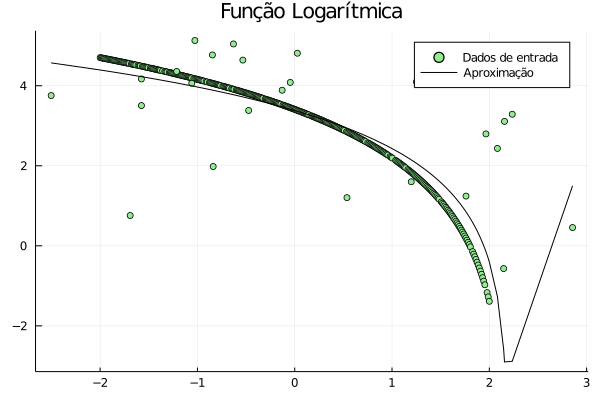
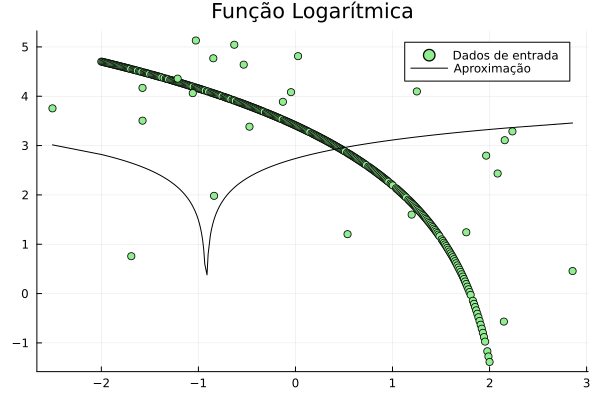
Updates from Overleaf

diff --git a/tex/report01.tex b/tex/report01.tex
@@ -46,9 +46,9 @@ portuguese] % Para algoritmos em português.
 	$$R(x)=\begin{bmatrix}
 	r_1(x)\\ \vdots \\ r_m(x)
 	\end{bmatrix}.$$ Com isso, reescrevemos o problema \begin{equation}
-	f(x) = \frac{1}{2}\sum_{i=1}^{m}r_i^2(x).
+	f(x) = \frac{1}{2}\sum_{i=1}^{m}r_i^2(x),
 	\end{equation}
-	Cada $r_i$ é chamada de função residual.
+	onde cada $r_i$ é chamada de função residual.
 	
 	Definamos $J(x)$ como a matriz jacobiana de $f,$ assim
 	\[
@@ -68,16 +68,15 @@ portuguese] % Para algoritmos em português.
 
 	$1 \leq i \leq m$, $1 \leq j \leq m$.
 		
-	Desta forma, podemos reescrever a derivada de primeira e segunda ordem da função $f,$ de modo diminuir o custo computacional. Veja,
+	Desta forma, podemos reescrever a derivada de primeira e segunda ordem da função $f,$ de modo à diminuir o custo computacional. Veja,
 	
 	\[\nabla f(x) = \sum_{i=1}^{m} r_i(x)\nabla r_i(x) = J(x)^{T}r(x)\]
 	
 	\[\nabla^{2} f(x) = \sum_{i=1}^{m} \nabla r_i(x)\nabla r_i(x)^{T}
 	+ \sum_{i=1}^{m} r_i(x) \nabla^{2}r_i(x) = J(x)^{T}J(x) + S(x)\]
-	
 	com $S(x) = \sum_{i=1}^{m} r_i(x)\nabla^{2}r_i(x).$
 	
-	Com isso, é necessário o cálculo do vetor gradiente da função $f,$ bem como o produto matricial $(J(x)^{T}J(x)$ e o termo $r_i(x)\nabla^{2}$ para encontrar $S(x).$ Contudo, o valor de $S(x)$ não influência tanto o método quanto o termo que o acompanha, $(J(x)^{T}J(x))$ devido ao valor residual ser pequeno ou ao comportamento próximo ao da função ao redor do ponto de convergência, por isso, muitas vezes podemos desconsiderar seu uso.
+	Com isso, é necessário o cálculo do vetor gradiente da função $f,$ bem como o produto matricial $J(x)^{T}J(x)$ e o termo $r_i(x)\nabla^{2}$ para encontrar $S(x).$ Contudo, o valor de $S(x)$ não influência tanto o método quanto o termo que o acompanha, $J(x)^{T}J(x)$ devido ao valor residual ser pequeno ou ao comportamento próximo ao da função ao redor do ponto de convergência, por isso, muitas vezes podemos desconsiderar seu uso.
 	
 	\section{Método de Levenberg-Marquardt}\label{lm}
 	
@@ -86,11 +85,11 @@ portuguese] % Para algoritmos em português.
 	\begin{equation*} 
 	(J(x_0)^{T}J(x_0) + \lambda_0 I ) d(\lambda_0) = - J(x_0)^T R(x_0),
 	\end{equation*}
-	sendo $J, R$ já estabelecidos previamente e $\lambda \in \mathbb{R}_+$ o paramêtro que será discutido posteriormente, chamado paramêtro de $damping.$ Vamos encontrar $d(\lambda),$ uma direção mais próxima da solução do problema proposto.
+	sendo $J, R$ já estabelecidos previamente e $\lambda \in \mathbb{R}_+$ o parâmetro que será discutido posteriormente, chamado parâmetro de $damping.$ Vamos encontrar $d(\lambda),$ uma direção mais próxima da solução do problema proposto.
 	
 	Assim, considerando $x_1 = x_0 + d,$ podemos resolver \ref{sl} continuamente, até encontramos $x_k$ que satisfaça a condição estabelecida.
 	
-	Veja que este sistema possui solução única, uma vez que a matriz $J^{T}J + \lambda I,$ com $\lambda > 0$ é definida positiva. Portando, o método está bem definido. Além disso, os resultados a seguir garantem o bom funcionamento do método.
+	Veja que este sistema possui solução única, uma vez que a matriz $J^{T}J + \lambda I,$ com $\lambda > 0$ é definida positiva. Portanto, o método está bem definido. Além disso, os resultados a seguir garantem o bom funcionamento do método.
 	
 	\begin{teo}
 		Seja $d(\lambda)$ a solução do problema 
@@ -110,7 +109,7 @@ portuguese] % Para algoritmos em português.
 	
 	Por outro lado, as direções consideradas pelo método de Gauss - Newton são da forma 
 	
-	\[ (J(x_k)^{T}J(x_k)d_k = -J^T(x_k)R(x_k). \]
+	\[ J(x_k)^{T}J(x_k)d_k = -J^T(x_k)R(x_k). \]
 	
 	Contudo, o método desenvolvido por Levenberg e melhorado por Marquardt mantém o baixo custo computacional do método de Gauss-Newton e o supera quanto a eficácia de seus iterandos, que estão sempre bem definidos independentemente do problema.
 		
@@ -206,12 +205,17 @@ portuguese] % Para algoritmos em português.
 	
 	Foi estabelecida uma precisão de $\epsilon = 10^{-10},$ o valor $\alpha = 0.5$ e um número máximo de iterações $k=1000$ para cada conjunto de dados fornecidos.
 	
-	Os nossos testes foram separados em quatro modelos de funções, sendo eles funções quadráticas(Subseção \ref{quad}), cúbicas (Subseção \ref{cub}), logarítmicas (Subseção \ref{log}) e gaussianas (Subseção \ref{gau}).
+	Os nossos testes foram separados em quatro modelos de funções, sendo eles funções quadráticas (Subseção \ref{quad}), cúbicas (Subseção \ref{cub}), logarítmicas (Subseção \ref{log}) e gaussianas (Subseção \ref{gau}).
+	
+	Para todos os modelos de funções, realizamos experimentos em um único conjunto de pontos, avaliando a matriz de dados com e sem
+	perturbações, e também, executamos o algoritmo em vários conjuntos de dados, com o objetivo de de avaliar o parâmetro de $damping$ e a taxa de sucesso do algoritmo.
+	
+	Os parâmetros de avaliação foram o número médio de iterações e a média do erro, definido como $||x^*-sol||,$ onde $sol$ é a solução real do problema.
 	
 	\subsection{Função Quadrática}\label{quad}
-	Inicialmente, consideramos $x_0 = (1, 0, 0)$ e o parâmetro de $damping$ DP3 em um dos conjuntos de dados a serem analisados pela função quadrática. O resultado do método foi o ponto $x^* = (-1.6568, -6.0813, 0.1420)$ em apenas 14 iterações, quando a solução real do problema era $(-9.5, -8.5, 2.5).$ Veja o resultado na Figura \ref{fig1} (a).
+	Inicialmente, consideramos $x_0 = (1, 0, 0)$ e o parâmetro de $damping$ DP3 em um dos conjuntos de dados a serem analisados pela função quadrática. O resultado do método foi o ponto $x^* = (-1.6568, -6.0813, 0.1420)$ em apenas 14 iterações, enquanto a solução real do problema é $(-9.5, -8.5, 2.5).$ Veja o resultado na Figura \ref{fig1} (a).
 	
-	Utilizamos o programa para retirar a perturbação da matriz de dados e aplicamos no método. Com isso, naturalmente,  obtemos uma solução melhor para o problema e consideravelmente próxima da solução dada. Obtemos, com o parâmetro DP1 o ponto $x^* = (-9.4999, -8.4999, 2.4999)$ em 73 iterações. Observe na Figura \ref{fig1} (b).
+	Utilizamos o programa para retirar a perturbação da matriz de dados e aplicamos no método. Com isso, naturalmente,  obtemos uma melhor solução  para o problema, consideravelmente próxima da solução dada. Obtemos, com o parâmetro DP3 o ponto $x^* = (-9.5, -8.5, 2.5)$ em 24 iterações. Observe na Figura \ref{fig1} (b).
 	
 		\begin{figure}[H]
 		\centering 
@@ -229,9 +233,7 @@ portuguese] % Para algoritmos em português.
 
 	Ademais, como um teste geral foram avaliados 262 conjuntos de dados com aproximações quadráticas em cada um dos parâmetros, bem como para o valor fixado $\lambda = 0.5.$ O ponto inicial foi $x_0 = (0, 0, 0).$
 	
-	Sendo avaliado o número médio de iterações para cada conjunto e também a média de erro é definida por $||x^*-sol||,$ onde $sol$ é a solução real do problema.
-	
-	Foi possível perceber que para os parâmetros DP1, DP3, DP4, DP5 e $0.5$ como valor fixado foi possível encontrar soluções com baixa taxa de erro. Vale a pena destacar que o parâmetro DP1 obteve esse resultado com uma média de poucas iterações, sendo o mais eficiente.
+	Foi possível perceber que para os parâmetros DP1, DP3, DP4, DP5 e $0.5$ como valor fixado, foi possível encontrar soluções com baixa taxa de erro. Vale a pena destacar que o parâmetro DP1 obteve esse resultado com uma média de poucas iterações, sendo o mais eficiente.
 	
 	Vale notar que na maioria dos casos a maior diferença entre os resultados obtidos por parâmetros diferentes é o número médio de iterações.
 	
@@ -253,9 +255,9 @@ portuguese] % Para algoritmos em português.
 		\end{tabular}
 	\end{table}
 	\subsection{Função Cúbica} \label{cub}
-		Seja $x_0 = (1, 0, 0,0)$ e o parâmetro de $damping$ DP3 em um dos conjuntos de dados a serem analisados pela função cúbica. O resultado do método foi o ponto $x^* = (-0.0517, 3.9730, -9.4655, -3.4345)$ em apenas 24 iterações, quando a solução real do problema era $(0,5,-10,-6).$ Veja o resultado na Figura \ref{fig2} (a).
+		Seja $x_0 = (1, 0, 0,0)$ e o parâmetro de $damping$ DP3 em um dos conjuntos de dados a serem analisados pela função cúbica. O resultado do método foi o ponto $x^* = (-0.0517, 3.9730, -9.4655, -3.4345)$ em apenas 24 iterações, enquanto a solução real do problema era $(0,5,-10,-6).$ Veja o resultado na Figura \ref{fig2} (a).
 	
-	Realizamos os mesmos testes, porém desconsiderando a perturbação. Com o parâmetro $0.5$ obtemos o ponto $x^* = (-4.1319.10^{-14}, 4.9999, -9.9999,$ $ -5.9999)$ em 6 iterações. Observe na Figura \ref{fig2} (b).
+	Realizamos os mesmos testes, porém desconsiderando a perturbação. Com o parâmetro DP3 obtemos o ponto $x^* = (1.2181.10^{-16}, 5.0, -10.0, -5.9999)$ em apenas 27 iterações. Observe na Figura \ref{fig2} (b).
 	
 	\begin{figure}[H]
 		\centering 
@@ -271,7 +273,7 @@ portuguese] % Para algoritmos em português.
 	\end{figure}
 	
 	
-	Ademais, como um teste geral foram avaliados 252 conjuntos de dados com aproximações cúbicas em cada um dos parâmetros, bem como para o valor fixado $\lambda = 0.5.$ Tomando novamente $x_0 = (0, 0, 0, 0)$ obtivemos um resultado semelhante ao das funções quadráticas, apenas com uma taxa de erro maior. Outra vez, o parâmetro DP1 obteve o mesmo resultado em um número menor de iterações.
+	Ademais, como um teste geral foram avaliados 252 conjuntos de dados com aproximações cúbicas em cada um dos parâmetros, bem como para o valor fixado $\lambda = 0.5.$ Tomando novamente $x_0 = (0, 0, 0, 0)$ obtivemos um resultado semelhante ao das funções quadráticas, apenas com uma taxa de erro maior. Novamente, o parâmetro DP1 obteve o melhor resultado com relação ao número de iterações.
 	
 	Na maioria dos casos a maior diferença entre os resultados obtidos por parâmetros diferentes continua sendo o número médio de iterações.
 	
@@ -294,9 +296,13 @@ portuguese] % Para algoritmos em português.
 	\end{table}
 
 	\subsection{Função Logarítmica} \label{log}
-		Podemos considerar $x_0=(1, 2.5, -5.5)$ e o parâmetro DP3 encontramos o ponto $x^*=(0.7820, 3.9543, -8.6827),$ porém atingiu o número máximo de iterações, 1000.
-		
-		O resultado pode ser visto na Figura \ref{fig3} (a).
+		Podemos considerar $x_0=(1, 10, 10)$ e o parâmetro DP3. A análise em um único conjunto de dados
+		forneceu o ponto $x^*=(0.2550, 232.8216, 214.2468),$  muito divergente da solução real, também atingindo o número
+		máximo de iterações, 1000. O resultado pode ser visto na Figura \ref{fig3} (a).
+	    
+	   Com a análise com parâmetro DP3 e a matriz sem perturbações obtivemos
+	   $x^* = (0.27102, 149.6531, 149.1531)$, também atingindo o número máximo
+	   de iterações. Como ilustra a Figura \ref{fig4} (b).
 	
 	\begin{figure}[H]
 		\centering 
@@ -312,7 +318,7 @@ portuguese] % Para algoritmos em português.
 	\end{figure}
 	
 	
-	Foram consideradas 10 conjuntos de dados para os testes. O ponto inicial considerado foi $x_0 = (1, 10, 10).$ A função logarítmica obteve resultado com um número bem maior de iterações. Contudo, mais uma vez, o parâmetro DP1 foi o que obteve maior sucesso, e o que vale destacar foi a média do erro, que foi bem menor comparado aos outros parâmetros.
+	Foram consideradas 10 conjuntos de dados para os testes gerais. O ponto inicial considerado foi $x_0 = (1, 10, 10).$ A função logarítmica obteve resultados com um número bem maior de iterações com relação aos outros problemas. Contudo, mais uma vez, o parâmetro DP1 foi o que obteve maior sucesso, e o que vale destacar foi a média do erro, que foi bem menor comparado aos outros parâmetros.
 	
 	\begin{table}[H]
 		\centering
@@ -333,9 +339,9 @@ portuguese] % Para algoritmos em português.
 	\end{table}
 
 	\subsection{Função Gaussiana} \label{gau}
-	Apliquemos o método em uma função gaussiana. Seja $x_0 = (1, 10, 10)$ e o parâmetro de $damping$ DP3, obtivemos o ponto $x^* = (-4.5002, -2.9811,7.0802)$ em apenas 62 iterações, e a solução do problema é $(-4.5, -3, -7).$ Veja o resultado na Figura \ref{fig4} (a).
+	Para a função gaussiana, consideramos o ponto $x_0 = (1, 10, 10)$ e o parâmetro de $damping$ DP3, obtivemos o ponto $x^* = (-4.5002, -2.9811,7.0802)$ em apenas 62 iterações, e a solução do problema é $(-4.5, -3, -7).$ Veja o resultado na Figura \ref{fig4} (a).
 	
-	Sem a perturbação e com o parâmetro $0.5,$ encontramos o ponto $x^* = (-4.5,-3, 7)$ em 76 iterações. Observe na Figura \ref{fig4} (b).
+	Sem a perturbação dos dados e com o parâmetro DP3, encontramos o ponto $x^* = (-4.5,-2.9999, 6.9999)$ em 52 iterações. Observe na Figura \ref{fig4} (b).
 	
 	\begin{figure}[H]
 		\centering 
@@ -380,7 +386,7 @@ portuguese] % Para algoritmos em português.
 	f(x) = \frac{1}{2}||R(x)||^2.
 	\end{equation*}
 	
-	A seguir, na Seção \ref{lm} vimos a abordagem proposta por Levenberg e aprimorada por Marquardt para resolver tal problema. Dando consequência, estudamos o parâmetro de $damping,$ que pudemos observar pelos resulados vistos na Seção \ref{testes} possui grande influência no resultado encontrado pelo algoritmo abordado na Seção \ref{algoritmo}, principalmente em relação ao número de iterações necessárias para a convergência do método.
+	A seguir, na Seção \ref{lm} vimos a abordagem proposta por Levenberg e aprimorada por Marquardt para resolver tal problema. Consequentemente, estudamos o parâmetro de $damping,$ que pudemos observar pelos resulados vistos na Seção \ref{testes} possui grande influência no resultado encontrado pelo algoritmo abordado na Seção \ref{algoritmo}, principalmente em relação ao número de iterações necessárias para a convergência do método.
 	
 	Por fim, vale destacar que pudemos comprovar a boa convergência do método em muitos casos, além de expor resultados numéricos do uso do algoritmo.
 	
